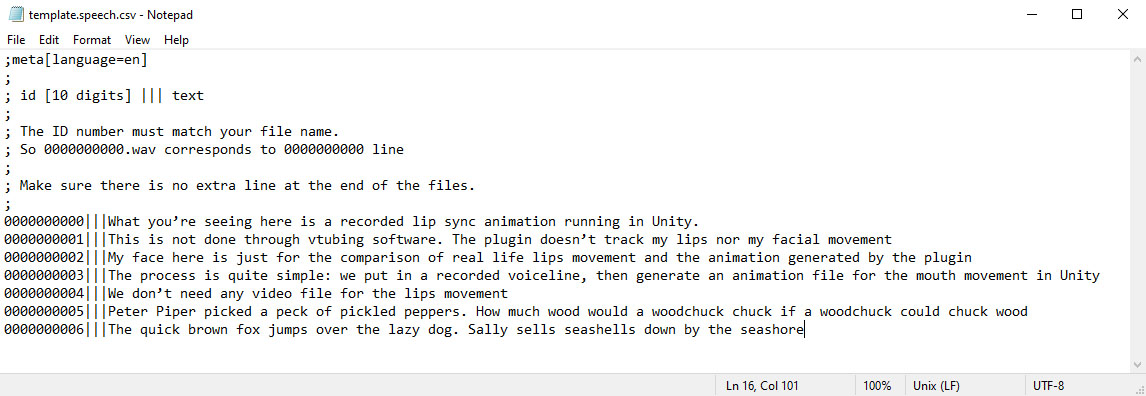
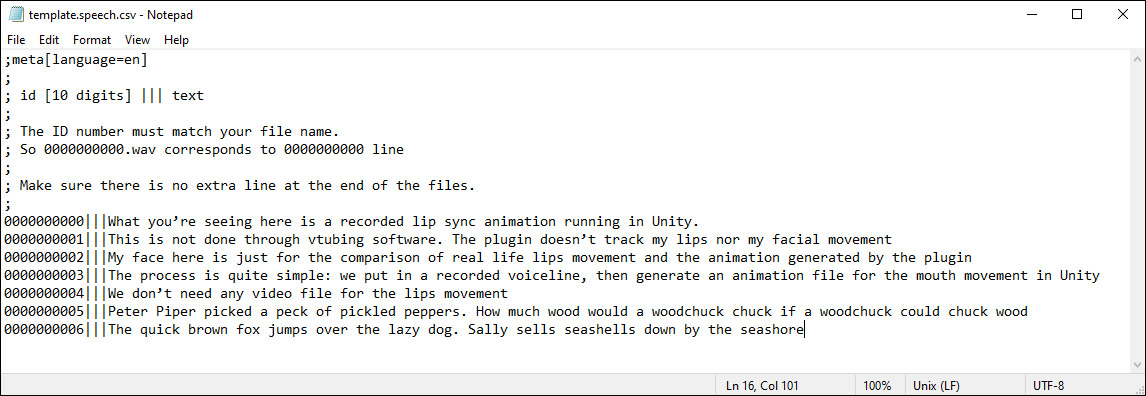
Modified Readme

diff --git a/README.md b/README.md
@@ -2,7 +2,7 @@
 
 This repo contains only the Phoneme Extractor tools from **Radish Modding Tools** made by Witcher 3 modding community. It was originally made by **rmemr**. I am mirroring the build version for ease of download for those who just want to use the Phoneme Extractor tool. 
 
-I highly recommend everyone to check out the full pack!
+I highly recommend everyone to check out the full modding tools. This community is amazing!
 - Full Radish Tools here: https://www.nexusmods.com/witcher3/mods/3620?tab=description
 - Phoneme Extractor Repo: https://codeberg.org/rmemr/w3.phoneme-extractor
 
@@ -14,22 +14,22 @@ I highly recommend everyone to check out the full pack!
 
 2. Put your recording files in the **audio.wav** folder
 
-<p align="center"><img src="https://github.com/FFaUniHan/Radish_Tools_Phoneme_Extractor/blob/main/2.jpg" width=75% height=75%></p>
+<p align="center"><img src="https://github.com/FFaUniHan/Radish_Tools_Phoneme_Extractor/blob/main/2.jpg" width=90% height=90%></p>
 
 3. Open the **template.speech.csv** and enter the voice lines text there. Follow the direction on the text files.
 
-<p align="center"><img src="https://github.com/FFaUniHan/Radish_Tools_Phoneme_Extractor/blob/main/3a.jpg" width=75% height=75%></p>
+<p align="center"><img src="https://github.com/FFaUniHan/Radish_Tools_Phoneme_Extractor/blob/main/3a.jpg" width=90% height=90%></p>
 
-<p align="center"><img src="https://github.com/FFaUniHan/Radish_Tools_Phoneme_Extractor/blob/main/3b.jpg" width=75% height=75%></p>
+<p align="center"><img src="https://github.com/FFaUniHan/Radish_Tools_Phoneme_Extractor/blob/main/3b.jpg" width=90% height=90%></p>
 
 4. Run **w3speech-phoneme-extractor.exe**
 
-<p align="center"><img src="https://github.com/FFaUniHan/Radish_Tools_Phoneme_Extractor/blob/main/4.jpg" width=75% height=75%></p>
+<p align="center"><img src="https://github.com/FFaUniHan/Radish_Tools_Phoneme_Extractor/blob/main/4.jpg" width=90% height=90%></p>
 
 5. In the new window, click **File > Load Audio** and locate your **audio.wav folder**
 
-<p align="center"><img src="https://github.com/FFaUniHan/Radish_Tools_Phoneme_Extractor/blob/main/5.jpg" width=75% height=75%></p>
+<p align="center"><img src="https://github.com/FFaUniHan/Radish_Tools_Phoneme_Extractor/blob/main/5.jpg" width=90% height=90%></p>
 
 6. Wait until each lines are **[ done ]**
 
-<p align="center"><img src="https://github.com/FFaUniHan/Radish_Tools_Phoneme_Extractor/blob/main/6.jpg" width=75% height=75%></p>
+<p align="center"><img src="https://github.com/FFaUniHan/Radish_Tools_Phoneme_Extractor/blob/main/6.jpg" width=90% height=90%></p>
